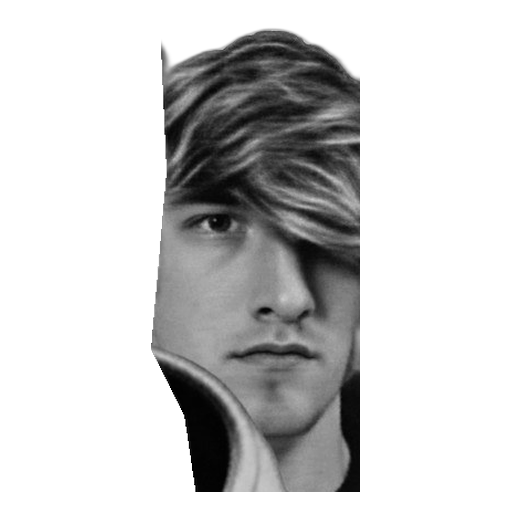
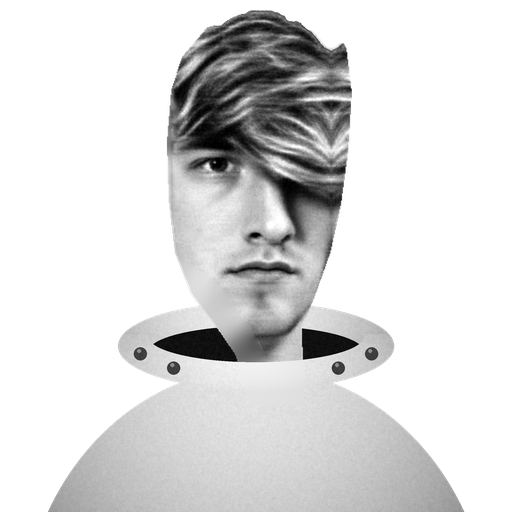
Jupiter 2011: video-style greyscale astronaut busts (thumbnail faces on a spacesuit collar, tools/art_jupiter_busts.py), lichess cburnett white pieces and no coordinates as in the video, 32 px HUD astronaut taps

diff --git a/data/modes/Mg2Upjjo2yg.js b/data/modes/Mg2Upjjo2yg.js
@@ -13,8 +13,9 @@
    the 3 grey pod squares in the nose, every white piece, astronaut and the 30 Keys on their video squares; plain CSS
    squares, lichess brown over a #292826 void, no room names, as in the video). Inferred: 1-3 keys per turn, the Launch
    button, astronauts move like kings, keys never enter the pod. Art from the video: key.png = the thumbnail's red F Key
-   cut out; speed/creek/queso.png = greyscale head-and-suit cutouts of the thumbnail portraits (the in-game sprites are
-   the same photos in greyscale, maxres1/maxres2). */
+   cut out; speed/creek/queso.png = greyscale head-and-shoulders busts like the in-game sprites (maxres1/maxres2): the
+   thumbnail faces on a spacesuit collar, tools/art_jupiter_busts.py. White pieces are lichess cburnett and the board has
+   no coordinates, as in the video. */
 (function () {
   var ID = 'Mg2Upjjo2yg', A = 'assets/modes/' + ID + '/';
   var ASTRO = { Speed: 1, Creek: 1, Queso: 1 };
@@ -130,7 +131,7 @@
       var i = c.at[n], st;
       if (i == null) st = '<small>lost</small>'; else if (isPod(g, i)) st = '<small>aboard</small>';
       else if (att[i]) st = '<small style="color:#ff8a80">in check x' + att[i] + '</small>'; else st = '<small>safe</small>';
-      h += '<span class="cm-stat" data-act="focus" data-sq="' + (i == null ? -1 : i) + '" role="button" style="cursor:pointer' + (i == null ? ';opacity:.45' : '') + '"><img src="' + A + n.toLowerCase() + '.png" alt="">' + n + ' ' + st + '</span>';
+      h += '<span class="cm-stat" data-act="focus" data-sq="' + (i == null ? -1 : i) + '" role="button" style="cursor:pointer;min-height:32px' + (i == null ? ';opacity:.45' : '') + '"><img src="' + A + n.toLowerCase() + '.png" alt="">' + n + ' ' + st + '</span>';
     });
     h += '<span class="cm-stat"><img src="' + A + 'key.png" alt="">' + c.keys + ' <small>keys</small></span>';
     h += '<span class="cm-hud__grow"></span>';
@@ -150,8 +151,8 @@
     player_side: 'white',
     player: { name: 'You', rating: null, avatar: 'assets/avatars/iwantcheckmate.png' },
     opponent: { name: 'The Keys', rating: null, avatar: A + 'key.png', tagline: 'Every Key moves like a queen, but only a couple move each turn.' },
-    board: { files: 45, ranks: 23, mask: MASK, viewport: { files: 45, ranks: 23, mobile: { files: 10, ranks: 10 } } },
-    theme: { light: '#f0d9b5', dark: '#b58863', background: '#292826' },   /* video: lichess brown squares over a #292826 void */
+    board: { files: 45, ranks: 23, mask: MASK, coords: false, viewport: { files: 45, ranks: 23, mobile: { files: 10, ranks: 10 } } },
+    theme: { light: '#f0d9b5', dark: '#b58863', background: '#292826', pieces: 'cburnett' },   /* video: lichess brown squares over a #292826 void, lichess cburnett white pieces, no coordinates */
     pieces: {
       Speed: { name: 'Speed', san: 'Sp', moves: 'K', value: 900, img: A + 'speed.png' },
       Creek: { name: 'Creek', san: 'Cr', moves: 'K', value: 900, img: A + 'creek.png' },

diff --git a/tools/art_jupiter_busts.py b/tools/art_jupiter_busts.py
@@ -1,0 +1,112 @@
+#!/usr/bin/env python3
+"""Jupiter 2011 Chess (Mg2Upjjo2yg) astronaut sprites: video-style greyscale busts.
+The in-game sprites in the video (research/ref/fin2-jupiter/thumbs/maxres1.jpg, maxres2.jpg, video/full_map_t0000_1440p.jpg)
+are greyscale head-and-shoulders photos of Speed, Queso and Creek in white spacesuits with a dark collar ring. The faces are
+cut from the video's thumbnail (maxresdefault.jpg) with rembg + traced outlines; where a neighbour hides part of a head
+(Queso's collar over Creek's jaw) it is inpainted from that head's own pixels, and Creek's hair past the frame edge is a
+short mirror of the hair inside it. The suit (padded collar ring with rivets, shoulders) is drawn here at 4x and downsampled.
+usage: python3 tools/art_jupiter_busts.py [OUTDIR]   (default: assets/modes/Mg2Upjjo2yg/, writes speed/queso/creek.png 512 px)
+"""
+import sys
+import numpy as np, cv2
+from PIL import Image, ImageDraw
+import os
+ROOT=os.path.dirname(os.path.dirname(os.path.abspath(__file__)))
+R=os.path.join(ROOT,'research/ref/fin2-jupiter/thumbs/maxresdefault.jpg')
+im=np.array(Image.open(R).convert('RGB'))
+def person_mask():
+    # rembg u2net_human_seg over the whole thumbnail (pip install rembg onnxruntime opencv-python-headless)
+    from rembg import remove, new_session
+    return np.array(remove(Image.fromarray(im), session=new_session('u2net_human_seg'), only_mask=True).convert('L'))
+mask=person_mask()
+PAD=80
+big=cv2.copyMakeBorder(im,PAD,PAD,PAD,PAD,cv2.BORDER_REFLECT)          # reflect beyond the frame (Creek's right, Queso's top)
+mbig=cv2.copyMakeBorder(mask,PAD,PAD,PAD,PAD,cv2.BORDER_REFLECT)
+def poly(pts):
+    m=Image.new('L',(big.shape[1],big.shape[0]),0); ImageDraw.Draw(m).polygon([(x+PAD,y+PAD) for x,y in pts],fill=255); return np.array(m)
+H={
+ 'speed': dict(pts=[(395,250),(420,200),(470,160),(540,140),(600,148),(640,160),(668,195),(680,260),(686,340),(686,420),(678,480),(662,528),(640,565),(625,610),(620,660),(530,660),(520,610),(480,560),(450,470),(420,380),(380,330),(370,290)],
+               foreign=[]),
+ 'queso': dict(pts=[(700,-30),(800,-48),(900,-50),(1000,-42),(1060,0),(1085,80),(1095,180),(1095,280),(1090,370),(1080,440),(1065,510),(1035,580),(990,635),(930,668),(875,676),(815,666),(760,630),(720,575),(695,500),(682,420),(678,330),(675,240),(680,140),(690,40)],
+               foreign=[]),
+ 'creek': dict(pts=[(1112,225),(1140,192),(1190,172),(1250,172),(1280,185),(1296,215),(1302,265),(1298,330),(1290,390),(1278,445),(1260,495),(1246,530),(1248,615),(1190,615),(1172,560),(1150,528),(1122,492),(1104,445),(1097,385),(1095,320),(1100,262)],
+               foreign=[[(1060,150),(1099,150),(1099,470),(1060,470)],
+                        [(1060,448),(1104,450),(1137,468),(1158,488),(1173,508),(1186,528),(1198,548),(1209,568),(1221,588),(1250,606),(1250,660),(1060,660)]]),
+}
+def head(name):
+    h=H[name]; P=poly(h['pts'])
+    fg=(mbig>110).astype(np.uint8)*255
+    bad=np.zeros_like(P)
+    for f in h['foreign']: bad=np.maximum(bad,(poly(f)>0).astype(np.uint8)*255&P)
+    if name=='creek': bad[:, 1280+PAD:]=0   # reflected hair beyond the frame is kept as is
+    fb=np.zeros_like(P)
+    for f in h['foreign']: fb=np.maximum(fb,poly(f))
+    good=((P>0)&(fg>0)&(fb==0)).astype(np.uint8)
+    if name=='creek': good[:, 1280+PAD:]=((P>0)&(fg>0))[:, 1280+PAD:]
+    ys,xs=np.where(P>0); X0,X1,Y0,Y1=xs.min()-10,xs.max()+10,ys.min()-10,ys.max()+10
+    crop=big[Y0:Y1,X0:X1].copy(); unk=(1-good[Y0:Y1,X0:X1])*255
+    filled=cv2.inpaint(crop,unk.astype(np.uint8),15,cv2.INPAINT_TELEA)
+    img=big.copy(); img[Y0:Y1,X0:X1]=filled
+    a=((P>0)&((fg>0)|(fb>0))).astype(np.uint8)*255
+    a=cv2.morphologyEx(a,cv2.MORPH_OPEN,np.ones((5,5),np.uint8))
+    n,lab,st,_=cv2.connectedComponentsWithStats(a); k=1+np.argmax(st[1:,cv2.CC_STAT_AREA]); a=(lab==k).astype(np.uint8)*255
+    ys,xs=np.where(a>0); x0,x1,y0,y1=xs.min(),xs.max()+1,ys.min(),ys.max()+1
+    rgba=np.dstack([img,a])[y0:y1,x0:x1]
+    return Image.fromarray(rgba.astype(np.uint8),'RGBA'), (x0-PAD, y0-PAD)
+
+from PIL import ImageOps, ImageFilter
+SS=4; N=512*SS
+EYES={'speed':((523,422),(630,422)),'queso':((810,327),(940,327)),'creek':((1150,348),(1240,348))}
+EYE_D=80; EYE_Y=166
+rng=np.random.default_rng(7)
+def ell(cx,cy,rx,ry):
+    m=Image.new('L',(N,N),0); ImageDraw.Draw(m).ellipse([(cx-rx)*SS,(cy-ry)*SS,(cx+rx)*SS,(cy+ry)*SS],fill=255); return np.array(m)
+YY,XX=np.mgrid[0:N,0:N]/SS
+def shade(cx,cy,rx,ry,lo,hi,p=1.8):
+    d=np.clip(np.sqrt(((XX-cx)/rx)**2+((YY-cy)/ry)**2),0,1); return hi-(hi-lo)*d**p
+def bust(name):
+    L=np.zeros((N,N)); A=np.zeros((N,N))
+    def put(mask,val):
+        nonlocal L,A
+        m=mask/255.0; L=L*(1-m)+val*m; A=np.maximum(A,m)
+    cy,rx,ry,band=346,138,44,30
+    # shoulders: a wide padded dome, lit from the top
+    put(ell(256,640,236,272), shade(250,380,300,300,120,228))
+    # collar: padded rim + dark neck opening
+    put(ell(256,cy,rx,ry), shade(248,cy-30,rx+30,ry+50,150,240))
+    inner=ell(256,cy+6,rx-band,ry-band*0.6); put(inner, np.full((N,N),16.0))
+    img=np.dstack([L,L,L,A*255]).astype(np.uint8); out=Image.fromarray(img,'RGBA')
+    # head
+    h,(ox,oy)=head(name); h=ImageOps.grayscale(h.convert('RGB')).convert('RGBA'); h.putalpha(head(name)[0].getchannel('A'))
+    g=np.array(h)[:,:,0].astype(float); a=np.array(h)[:,:,3]>0
+    lo,hi=np.percentile(g[a],1),np.percentile(g[a],99.5); g=np.clip((g-lo)/(hi-lo)*245+5,0,255)
+    arr=np.array(h); arr[:,:,0]=arr[:,:,1]=arr[:,:,2]=g; h=Image.fromarray(arr,'RGBA')
+    (ex1,ey1),(ex2,ey2)=EYES[name]; s=EYE_D/(ex2-ex1)*SS
+    h=h.resize((max(1,int(h.width*s)),max(1,int(h.height*s))),Image.LANCZOS)
+    mx,my=(ex1+ex2)/2-ox,(ey1+ey2)/2-oy
+    layer=Image.new('RGBA',(N,N),(0,0,0,0)); layer.alpha_composite(h,(int(256*SS-mx*s),int(EYE_Y*SS-my*s)))
+    la=np.array(layer); keep=(YY<cy)|(ell(256,cy+6,rx-band,ry-band*0.6)>0); la[:,:,3]=np.where(keep,la[:,:,3],0)
+    out.alpha_composite(Image.fromarray(la,'RGBA'))
+    # front lip of the collar over the neck
+    lip=np.clip(ell(256,cy,rx,ry).astype(int)-ell(256,cy-10,rx-band,ry-band*0.6).astype(int),0,255)
+    lip[YY<cy-12]=0
+    v=shade(250,cy+ry*0.35,rx+40,ry+40,160,242)
+    lipimg=np.dstack([v,v,v,lip]).astype(np.uint8); out.alpha_composite(Image.fromarray(lipimg,'RGBA'))
+    d=ImageDraw.Draw(out)
+    for ang in (200,228,312,340):
+        t=np.radians(ang); x=256+(rx-band/2)*np.cos(t); y=cy-4-(ry-band*0.3)*np.sin(t); r=6.5
+        d.ellipse([(x-r)*SS,(y-r)*SS,(x+r)*SS,(y+r)*SS],fill=(62,62,62,255))
+        d.ellipse([(x-r*0.5)*SS,(y-r*0.75)*SS,(x+r*0.1)*SS,(y-r*0.15)*SS],fill=(140,140,140,255))
+    out=out.resize((512,512),Image.LANCZOS)
+    # photo grain on the suit so it sits with the photographed heads
+    a=np.array(out).astype(float); hm=np.array(layer.resize((512,512)))[:,:,3]>8
+    n=rng.normal(0,5.5,(512,512)); n=np.array(Image.fromarray(np.clip(n*10+128,0,255).astype(np.uint8)).filter(ImageFilter.GaussianBlur(0.7))).astype(float)/10-12.8
+    for c in range(3): a[:,:,c]=np.where(hm,a[:,:,c],np.clip(a[:,:,c]+n,0,255))
+    return Image.fromarray(a.astype(np.uint8),'RGBA')
+if __name__=='__main__':
+    od=sys.argv[1] if len(sys.argv)>1 else os.path.join(ROOT,'assets/modes/Mg2Upjjo2yg')
+    os.makedirs(od,exist_ok=True)
+    sheet=Image.new('RGBA',(3*520,520),(181,136,99,255)); sm=Image.new('RGBA',(3*80,80),(240,217,181,255))
+    for k,n in enumerate(['speed','queso','creek']):
+        b=bust(n); b.save(f'{od}/{n}.png'); sheet.alpha_composite(b,(k*520+4,4)); sm.alpha_composite(b.resize((72,72),Image.LANCZOS),(k*80+4,4))
+    if len(sys.argv)>1: sheet.save(f'{od}/sheet.png'); sm.resize((720,240),Image.NEAREST).save(f'{od}/small.png')
